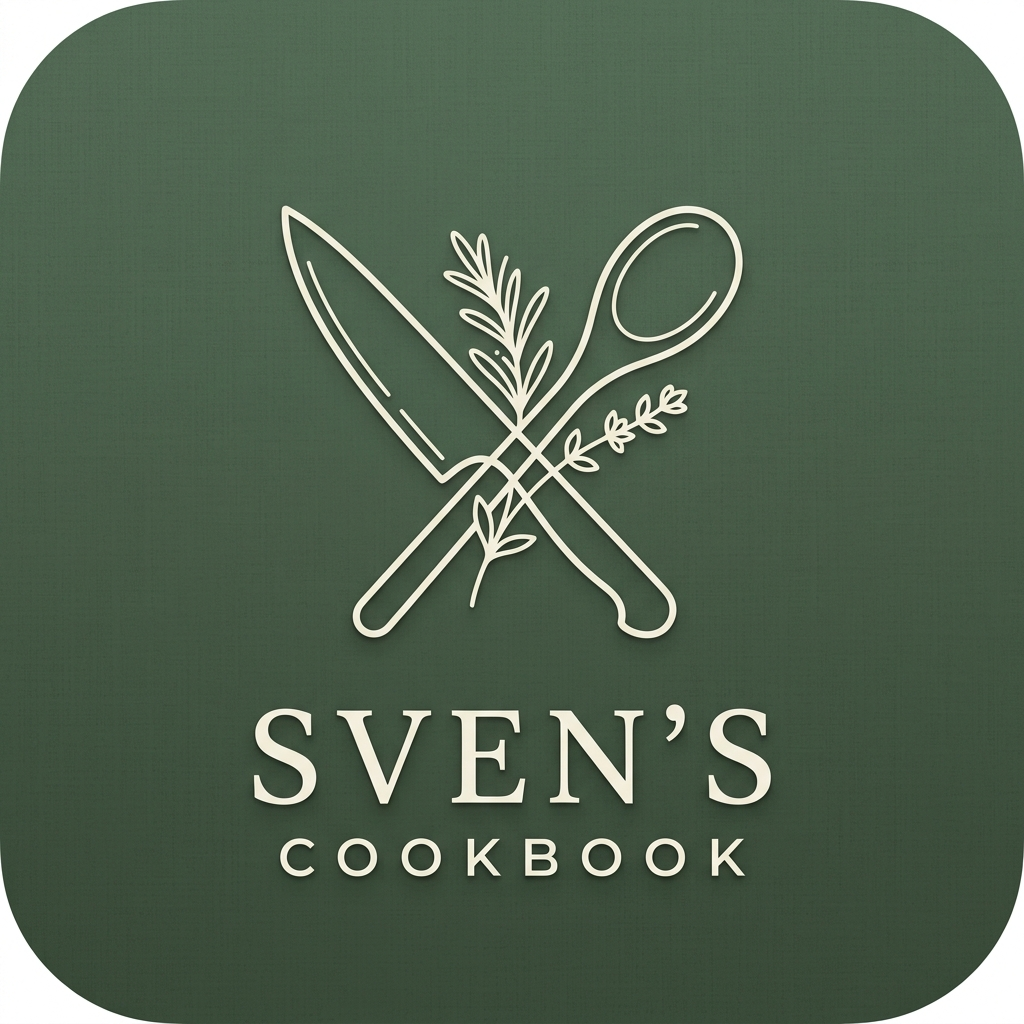
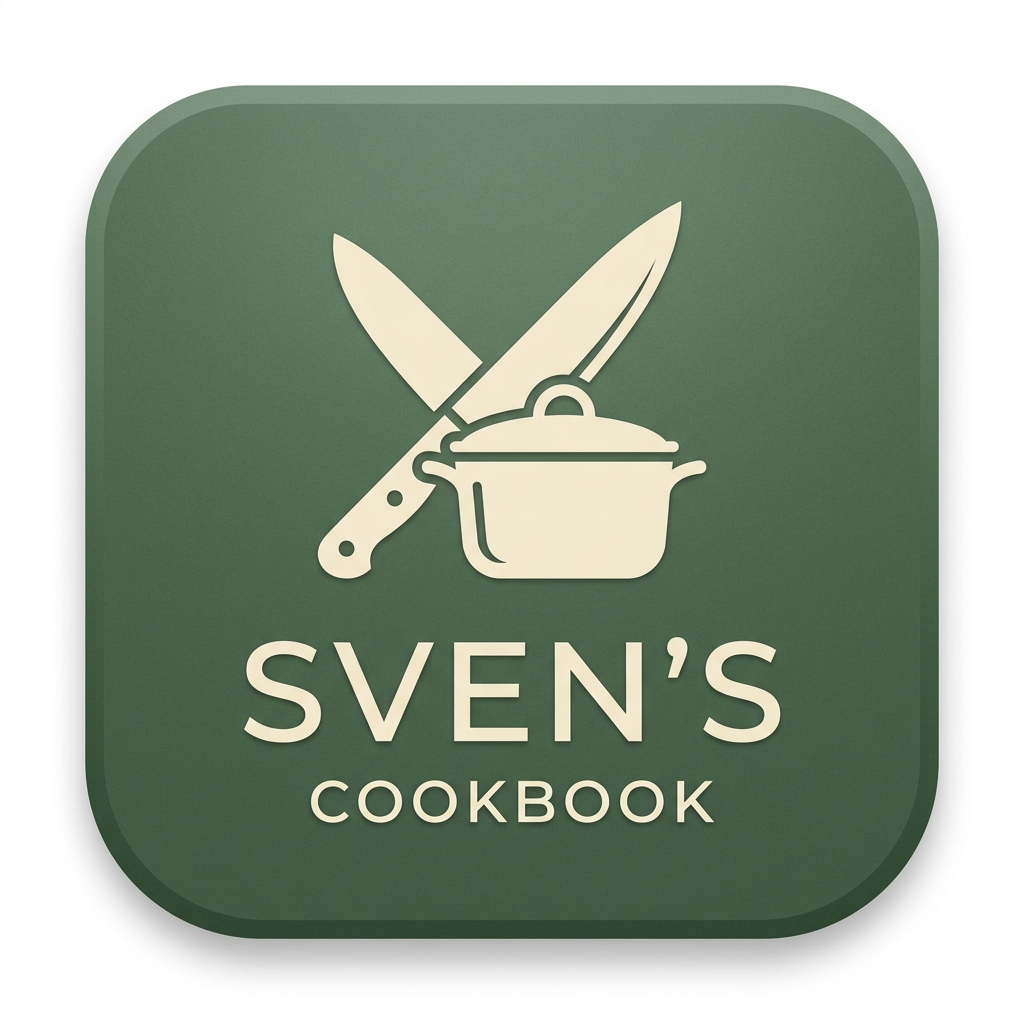
style: print layout, rustic light mode, and header branding
- Changed header/footer SVGs to correct chef pot + knife logo artwork (Option A)
- Overwrote public/favicon.svg to render the pot + knife logo instead of generic cutlery
- Swapped active public/apple-touch-icon.png with correct brand icon file from logs
- Tuned Light Mode palette variables to rustic warm cream-brown (#F3EFE9 background, #FCFAF6 cards, #DFD9CE borders)
- Restored recipe card description and heading contrast in light mode
- Added custom @media print rules to output a clean, stacked, black-and-white serif document format on print button click

diff --git a/src/styles/global.css b/src/styles/global.css
@@ -12,17 +12,17 @@
   --color-sage-light:    #6C9A76;
   --color-sage-mist:     rgba(62,86,67,0.08);
 
-  --color-cream:         #F4F3EF;
-  --color-cream-dark:    #EDE8DC;
-  --color-cream-surface: #FAFAF7;
+  --color-cream:         #F3EFE9; /* Warm light rustic brown-cream */
+  --color-cream-dark:    #E7DEC9; /* Deep clay-cream for hover/borders */
+  --color-cream-surface: #FCFAF6; /* Soft warm ivory-white for card surfaces */
 
   --color-terracotta:    #8C3B1A;
   --color-terracotta-lt: #D47B5A;
 
-  --color-ink:           #1A1A1A;
-  --color-ink-soft:      #2D2D2D;
+  --color-ink:           #1A1A1A; /* Crisp deep charcoal for titles */
+  --color-ink-soft:      #2A2A2A; /* Dark ink for paragraphs */
   --color-muted:         #5C6B5F;
-  --color-border:        #DDD9D0;
+  --color-border:        #DFD9CE; /* Spaced warm borders */
 
   /* Dark mode palette */
   --color-dark-bg:       #0F1A12;
@@ -409,7 +409,7 @@ html.dark .recipe-card__download { color: var(--color-sage-light); }
 .recipe-card h3 {
   font-family: var(--font-serif);
   font-size: 1.15rem;
-  font-weight: 600;
+  font-weight: 700;
   color: var(--color-ink);
   margin: 0 0 0.4rem 0;
   line-height: 1.3;
@@ -420,7 +420,7 @@ html.dark .recipe-card__download { color: var(--color-sage-light); }
 
 .recipe-card .desc {
   font-size: 0.875rem;
-  color: var(--color-muted);
+  color: var(--color-ink-soft);
   line-height: 1.5;
   margin-bottom: auto;
   padding-bottom: 0.75rem;
@@ -1238,3 +1238,131 @@ html.dark .recipe-card__download { color: var(--color-sage-light); }
 .legal-page h1 { font-family: var(--font-serif); font-size: 2rem; margin-bottom: 1.5rem; }
 .legal-page h2 { font-family: var(--font-serif); font-size: 1.3rem; margin: 1.5rem 0 0.5rem; }
 .legal-page p { color: var(--color-muted); line-height: 1.7; margin: 0 0 0.75rem; }
+
+/* ============================================================
+   PRINT STYLES - Clean plain black text layout
+   ============================================================ */
+@media print {
+  /* Hide UI elements, headers, sidebars, buttons, backgrounds, images */
+  .site-header,
+  .site-footer,
+  .back-link,
+  .recipe-actions,
+  .cooking-progress,
+  .step-nav,
+  .theme-toggle-btn,
+  .recipe-hero-image,
+  .metadata-box {
+    display: none !important;
+  }
+
+  /* Reset layout constraints and color for printing */
+  html, body {
+    background: #FFF !important;
+    color: #000 !important;
+    font-size: 11pt !important;
+    font-family: Georgia, serif !important;
+    margin: 0 !important;
+    padding: 0 !important;
+  }
+
+  .recipe-detail {
+    max-width: 100% !important;
+    margin: 0 !important;
+    padding: 0 !important;
+  }
+
+  /* Two column layout to simple stacked flow */
+  .recipe-columns {
+    display: block !important;
+  }
+
+  h1, h2, h3 {
+    color: #000 !important;
+    page-break-after: avoid;
+    font-family: Georgia, serif !important;
+  }
+
+  h1 {
+    font-size: 20pt !important;
+    margin-top: 0 !important;
+    margin-bottom: 5pt !important;
+  }
+
+  .recipe-description {
+    font-size: 11pt !important;
+    color: #333 !important;
+    margin-bottom: 20pt !important;
+  }
+
+  /* Clear dividers style for print */
+  .section-divider {
+    border-bottom: 1px solid #000 !important;
+    text-align: left !important;
+    margin: 10pt 0 !important;
+  }
+  .section-divider span {
+    display: none !important;
+  }
+
+  /* Lists formatting */
+  .ingredients-list, .instructions-list {
+    margin-bottom: 20pt !important;
+    gap: 0 !important;
+  }
+
+  .ingredients-list li {
+    padding: 3pt 0 !important;
+    border: none !important;
+    color: #000 !important;
+    display: list-item !important;
+    list-style-type: square !important;
+    margin-left: 20px !important;
+  }
+  .ingredient-check {
+    display: none !important;
+  }
+
+  .interactive-step {
+    border: none !important;
+    background: transparent !important;
+    padding: 5pt 0 !important;
+    display: block !important;
+    color: #000 !important;
+  }
+  .step-circle {
+    display: inline !important;
+    background: transparent !important;
+    color: #000 !important;
+    font-weight: bold !important;
+    margin-right: 5px !important;
+  }
+  .step-circle::after {
+    content: "." !important;
+  }
+
+  /* Accordion notes formatting for clean printing */
+  .notes-section {
+    display: block !important;
+    page-break-inside: avoid;
+  }
+  .accordion-item {
+    border: none !important;
+    background: transparent !important;
+    margin-bottom: 10pt !important;
+  }
+  .accordion-trigger {
+    font-weight: bold !important;
+    color: #000 !important;
+    padding: 0 !important;
+  }
+  .accordion-trigger svg {
+    display: none !important;
+  }
+  .accordion-body {
+    max-height: none !important;
+    padding: 5pt 0 0 0 !important;
+    color: #222 !important;
+    display: block !important;
+  }
+}
